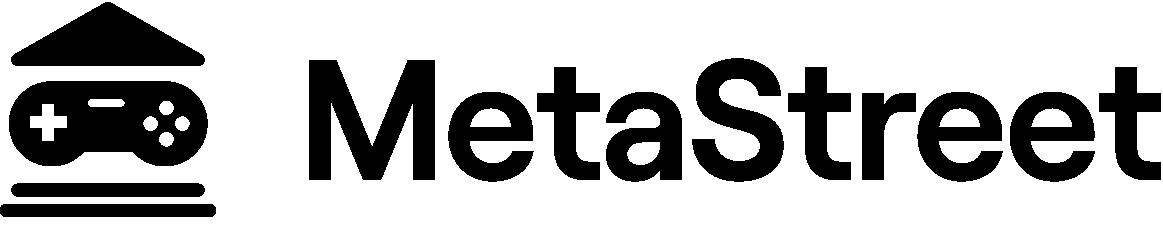
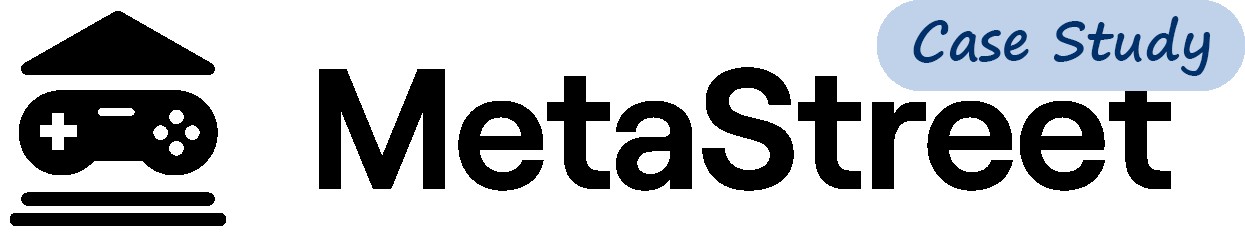
add: a bunch of stuff

diff --git a/src/modules/HomePage/index.tsx b/src/modules/HomePage/index.tsx
@@ -1,3 +1,4 @@
+import { ExclamationCircleIcon, XIcon } from "@heroicons/react/outline";
 import { ExternalLinkIcon } from "@heroicons/react/solid";
 import EmptyState from "components/EmptyState";
 import NFTCard from "components/NFTCard";
@@ -5,20 +6,40 @@ import useBalances from "state/balances";
 import useSigner from "state/signer";
 
 const HomePage = () => {
-  const { signer } = useSigner();
+  const { signer, searchAddress, setSearchAddress } = useSigner();
   const { collections, collectionsError } = useBalances();
 
   const notConnected = !signer;
-  const loading = signer && !collections;
+  const loading = signer && !collections && !collectionsError;
   const empty = signer && collections && collections.length == 0;
   const loaded = signer && collections && collections.length > 0;
 
   return (
     <div className="flex w-full flex-col">
+      {!notConnected && searchAddress && (
+        <div className="mb-4 flex items-center space-x-2 self-center">
+          <div className="flex items-center rounded bg-blue-100 px-2 py-1">
+            <ExclamationCircleIcon className="mr-2 h-4 w-4" />
+            <p className="text-sm">
+              Showing NFTs owned by{" "}
+              <span className="font-semibold">{searchAddress}</span>
+            </p>
+          </div>
+          <button
+            className="flex"
+            title="clear"
+            type="button"
+            onClick={() => setSearchAddress(undefined)}
+          >
+            <XIcon className="h-4 w-4" />
+          </button>
+        </div>
+      )}
       {notConnected && <EmptyState>Connect your wallet</EmptyState>}
       {loading && <EmptyState>Loading...</EmptyState>}
       {collectionsError && <EmptyState>Couldn't fetch your NFTs...</EmptyState>}
       {empty && <EmptyState>Nothing to show here</EmptyState>}
+
       {loaded && (
         <div className="flex flex-col">
           {collections.map((collection, idx) => (
@@ -38,7 +59,12 @@ const HomePage = () => {
               {/* COLLECTION LIST OF NFTS */}
               <div className="flex flex-wrap">
                 {collection.nft_data.map((nft) => (
-                  <NFTCard nft={nft} className="mr-2 mb-2" key={nft.token_id} />
+                  <NFTCard
+                    nft={nft}
+                    contractAddress={collection.contract_address}
+                    className="mr-2 mb-2"
+                    key={nft.token_id}
+                  />
                 ))}
               </div>
             </div>

diff --git a/src/components/ConnectButton.tsx b/src/components/ConnectButton.tsx
@@ -1,10 +1,58 @@
+import { SearchIcon } from "@heroicons/react/outline";
+import { ethers } from "ethers";
+import { useState } from "react";
 import useSigner from "state/signer";
 import AddressAvatar from "./AddressAvatar";
+import Button from "./Button";
+import CustomDialog from "./CustomDialog";
+import IconButton from "./IconButton";
+import { Input } from "./Input";
 
 const ConnectButton = () => {
-  const { address, loading, connectWallet } = useSigner();
+  const { address, loading, connectWallet, setSearchAddress } = useSigner();
+  const [dialogOpen, setDialogOpen] = useState(false);
+  const [searchQuery, setSearchQuery] = useState("");
+  const [error, setError] = useState<string>();
 
-  if (address) return <AddressAvatar address={address} />;
+  const onSubmit = () => {
+    try {
+      ethers.utils.getIcapAddress(searchQuery);
+      setSearchAddress(searchQuery);
+      setDialogOpen(false);
+    } catch (e) {
+      console.log(e);
+      setError("Invalid address");
+    }
+  };
+
+  if (address)
+    return (
+      <div className="flex items-center space-x-4">
+        <IconButton
+          icon={<SearchIcon className="h-full w-full" />}
+          onClick={() => setDialogOpen(true)}
+        />
+        <AddressAvatar address={address} />
+        <CustomDialog
+          open={dialogOpen}
+          onClose={() => setDialogOpen(false)}
+          title="SEARCH BY ADDRESS"
+          description="Display NFTs for a different address"
+          className="w-96"
+        >
+          <div className="flex items-center space-x-2">
+            <Input
+              value={searchQuery}
+              error={error}
+              onChange={(e) => setSearchQuery(e.target.value)}
+              placeholder="0x367d3a87cc46fd91d202bd2b3ebe820fb010cadd"
+              className="flex-grow"
+            />
+            <Button onClick={onSubmit}>SEARCH</Button>
+          </div>
+        </CustomDialog>
+      </div>
+    );
   return (
     <button
       className="flex h-10 w-36 items-center justify-center rounded-full bg-black px-4 font-semibold text-white"

diff --git a/src/components/NFTCard.tsx b/src/components/NFTCard.tsx
@@ -4,7 +4,7 @@ import { useEffect, useState } from "react";
 import { toast } from "react-toastify";
 import { NFT } from "state/balances";
 import useSigner from "state/signer";
-import { ipfsToHTTPS } from "../helpers";
+import { fetchNFTMetadata } from "../helpers";
 
 type NFTMetadata = {
   name: string;
@@ -14,11 +14,12 @@ type NFTMetadata = {
 
 type NFTCardProps = {
   nft: NFT;
+  contractAddress: string;
   className?: string;
 };
 
 const NFTCard = (props: NFTCardProps) => {
-  const { nft, className } = props;
+  const { nft, contractAddress, className } = props;
   const { address } = useSigner();
   const router = useRouter();
   const [meta, setMeta] = useState<NFTMetadata>();
@@ -26,17 +27,9 @@ const NFTCard = (props: NFTCardProps) => {
   const [sellPopupOpen, setSellPopupOpen] = useState(false);
 
   useEffect(() => {
-    const fetchMetadata = async () => {
-      const metadataResponse = await fetch(ipfsToHTTPS(nft.token_url));
-      if (metadataResponse.status != 200) return;
-      const json = await metadataResponse.json();
-      setMeta({
-        name: json.name,
-        description: json.description,
-        imageURL: ipfsToHTTPS(json.image),
-      });
-    };
-    void fetchMetadata();
+    fetchNFTMetadata({ contractAddress, tokenID: nft.token_id })
+      .then(setMeta)
+      .catch((e) => console.log(e));
   }, [nft.token_url]);
 
   const showErrorToast = () => toast.warn("Something wrong!");
@@ -54,10 +47,10 @@ const NFTCard = (props: NFTCardProps) => {
         <img
           src={meta?.imageURL}
           alt={meta?.name}
-          className="h-80 w-full object-cover object-center"
+          className="h-80 w-full flex-shrink-0 object-cover object-center"
         />
       ) : (
-        <div className="flex h-80 w-full items-center justify-center">
+        <div className="flex h-80 w-full flex-shrink-0 items-center justify-center">
           loading...
         </div>
       )}

diff --git a/src/helpers/index.ts b/src/helpers/index.ts
@@ -1,11 +1,51 @@
+import { Contract, providers } from "ethers";
+
 export const ipfsToHTTPS = (url: string) => {
-  if (!url.startsWith("ipfs://")) throw new Error("Not an IPFS url");
-  const cid = url.substring(7);
-  return `https://ipfs.io/ipfs/${cid}`;
+  if (url.startsWith("ipfs://")) {
+    const cid = url.substring(7);
+    return `https://ipfs.io/ipfs/${cid}`;
+  }
+  return url;
 };
 
 export const minifyAddress = (address: string) => {
   const start = address.substring(0, 5);
   const end = address.substring(address.length - 4);
   return `${start}...${end}`;
+};
+
+type fetchNFTMetadataProps = {
+  tokenID: string;
+  contractAddress: string;
+};
+
+const ERC_721_METADATA_ABI = [
+  {
+    inputs: [{ internalType: "uint256", name: "tokenId", type: "uint256" }],
+    name: "tokenURI",
+    outputs: [{ internalType: "string", name: "", type: "string" }],
+    stateMutability: "view",
+    type: "function",
+  },
+];
+
+export const fetchNFTMetadata = async (props: fetchNFTMetadataProps) => {
+  // Instantiate a contract object
+  const contract = new Contract(
+    props.contractAddress,
+    ERC_721_METADATA_ABI,
+    providers.getDefaultProvider()
+  );
+  // Fetch the token URI from the contract
+  const tokenURI = await contract.tokenURI(props.tokenID);
+  console.log("TOKEN URI: ", tokenURI);
+  // Fetch token metadata from the above URI
+  const metadataResponse = await fetch(ipfsToHTTPS(tokenURI));
+  if (metadataResponse.status != 200) return;
+  const json = await metadataResponse.json();
+  return {
+    name: json.name as string,
+    description: json.description as string,
+    imageURL: ipfsToHTTPS(json.image),
+  };
 };

diff --git a/src/components/CustomDialog.tsx b/src/components/CustomDialog.tsx
@@ -1,5 +1,6 @@
 import { Dialog } from "@headlessui/react";
 import { XIcon } from "@heroicons/react/solid";
+import classNames from "classnames";
 import { ReactNode } from "react";
 
 type DialogProps = {
@@ -8,10 +9,11 @@ type DialogProps = {
   title: ReactNode;
   description: ReactNode;
   children: ReactNode;
+  className?: string;
 };
 
 const CustomDialog = (props: DialogProps) => {
-  const { open, onClose, title, description, children } = props;
+  const { open, onClose, title, description, children, className } = props;
 
   return (
     <Dialog
@@ -19,7 +21,12 @@ const CustomDialog = (props: DialogProps) => {
       onClose={onClose}
       className="fixed inset-0 z-50 flex items-center justify-center overflow-y-auto"
     >
-      <div className="relative z-20 flex flex-col rounded-xl bg-white p-4">
+      <div
+        className={classNames(
+          "max-w-screen relative z-20 flex flex-col rounded-xl bg-white p-4",
+          className
+        )}
+      >
         <button onClick={onClose} className="absolute right-4 top-4">
           <XIcon className="h-5 w-5" />
         </button>

diff --git a/src/state/signer.tsx b/src/state/signer.tsx
@@ -13,6 +13,8 @@ type SignerContextType = {
   address?: string;
   loading: boolean;
   connectWallet: () => Promise<void>;
+  searchAddress?: string;
+  setSearchAddress: (address?: string) => void;
 };
 
 const SignerContext = createContext<SignerContextType>({} as any);
@@ -23,6 +25,7 @@ export const SignerProvider = ({ children }: { children: ReactNode }) => {
   const [signer, setSigner] = useState<JsonRpcSigner>();
   const [address, setAddress] = useState<string>();
   const [loading, setLoading] = useState(false);
+  const [searchAddress, setSearchAddress] = useState<string>();
 
   useEffect(() => {
     const ethereum = (window as any).ethereum;
@@ -70,7 +73,14 @@ export const SignerProvider = ({ children }: { children: ReactNode }) => {
     setLoading(false);
   };
 
-  const contextValue = { signer, address, loading, connectWallet };
+  const contextValue = {
+    signer,
+    address,
+    loading,
+    connectWallet,
+    searchAddress,
+    setSearchAddress,
+  };
 
   return (
     <SignerContext.Provider value={contextValue}>

diff --git a/src/pages/api/balances/[address].ts b/src/pages/api/balances/[address].ts
@@ -24,22 +24,9 @@ const handler: NextApiHandler = async (req, res) => {
   // Get data from Covalent response
   const json = await response.json();
   const items = json.data.items as any[];
-  let collections = items.filter((item) => item.type == "nft");
-  // Format ipfs url correctly
-  collections = collections.map((collection) => {
-    const nft_data = collection.nft_data.map((nft: any) => {
-      // Get CID
-      const needle = "/ipfs/";
-      const index = nft.token_url.search(needle);
-      const cid = nft.token_url.substring(index + needle.length);
-      // Construct valid ipfs url
-      const token_url = `ipfs://${cid}`;
-      // Return valid nft object
-      return { ...nft, token_url };
-    });
-    // return collection with valid nft_data
-    return { ...collection, nft_data };
-  });
+  let collections = items
+    .filter((item) => item.type == "nft")
+    .filter((item) => item.nft_data && item.nft_data.length);
   // return collection to the caller
   res.status(200).json({ collections });
 };

diff --git a/src/components/IconButton.tsx b/src/components/IconButton.tsx
@@ -1,0 +1,24 @@
+import classNames from "classnames";
+import { ButtonHTMLAttributes, ReactNode } from "react";
+
+type IconButtonProps = {
+  icon: ReactNode;
+} & Omit<ButtonHTMLAttributes<HTMLButtonElement>, "children">;
+
+const IconButton = (props: IconButtonProps) => {
+  const { icon, className, ...rest } = props;
+  return (
+    <button
+      type="button"
+      className={classNames(
+        "flex rounded-full p-2 hover:bg-gray-200",
+        className
+      )}
+      {...rest}
+    >
+      <div className="flex h-6 w-6">{icon}</div>
+    </button>
+  );
+};
+
+export default IconButton;

diff --git a/src/state/balances.ts b/src/state/balances.ts
@@ -15,12 +15,13 @@ type Collection = {
 };
 
 const useBalances = () => {
-  const { address = "" } = useSigner();
+  const { address, searchAddress } = useSigner();
+  const addressToBeUsed = searchAddress ?? address ?? "";
 
-  const currentQK = ["balances", address];
+  const currentQK = ["balances", addressToBeUsed];
   const { data, error } = useQuery<Collection[], number>(
     currentQK,
-    () => fetchBalancesRequest(address),
+    () => fetchBalancesRequest(addressToBeUsed),
     {
       enabled: Boolean(address),
     }

diff --git a/src/components/Input.tsx b/src/components/Input.tsx
@@ -1,0 +1,18 @@
+import classNames from "classnames";
+import { InputHTMLAttributes } from "react";
+
+type InputProps = { error?: string } & InputHTMLAttributes<HTMLInputElement>;
+
+export const Input = (props: InputProps) => {
+  const { error, className, ...rest } = props;
+
+  return (
+    <input
+      className={classNames(className, "rounded border px-2 py-2", {
+        "border-gray-300": !error,
+        "border-red-500": error,
+      })}
+      {...rest}
+    />
+  );
+};

diff --git a/src/components/TopBar.tsx b/src/components/TopBar.tsx
@@ -7,7 +7,7 @@ const TopBar = () => {
       <div className="relative flex w-full items-center px-4  py-4 shadow">
         <Link href="/">
           <a>
-            <img src="/meta_street.png" className="h-6" />
+            <img src="/meta_street.png" className="h-8" />
           </a>
         </Link>
         <div className="flex-grow" />
